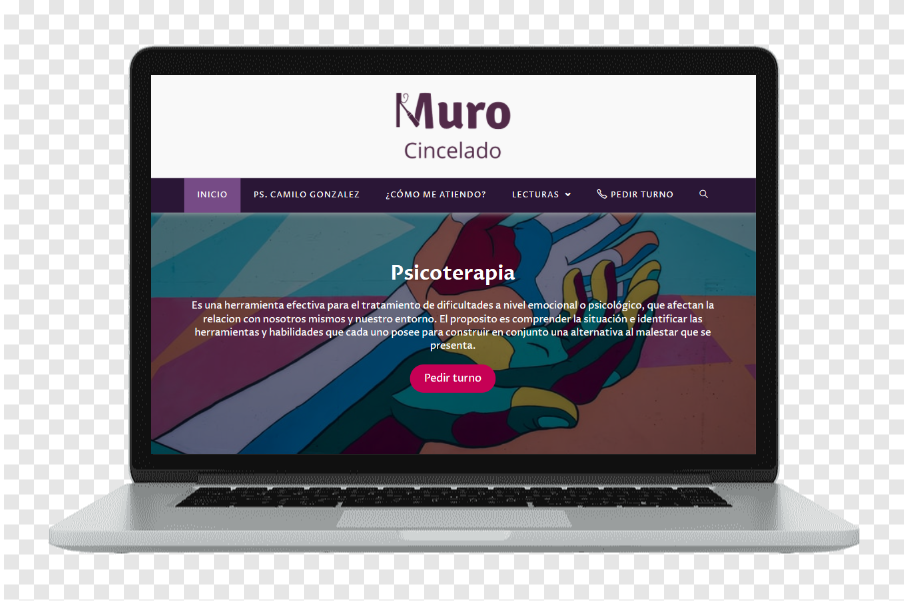
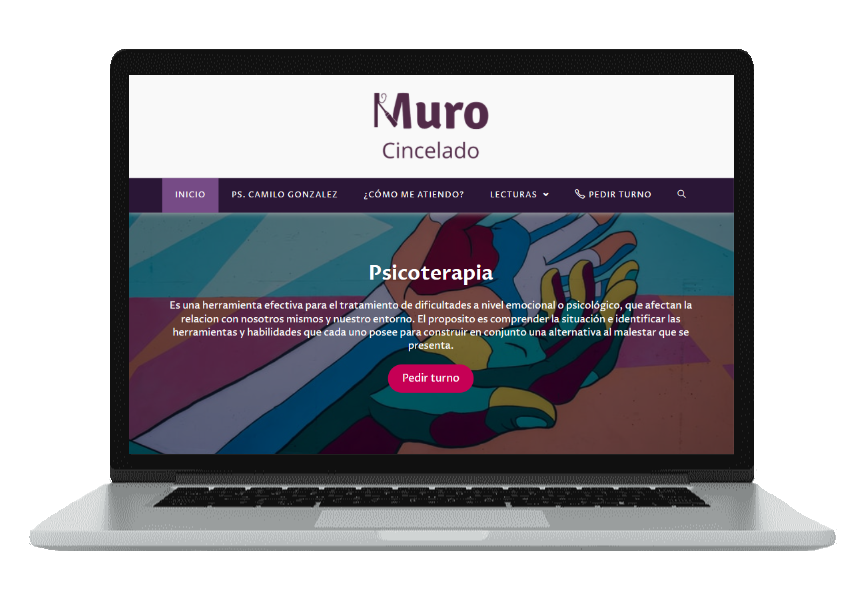
descripcion e imagenes de trabajos

diff --git a/README.md b/README.md
@@ -1,12 +1,18 @@
-### Hola 👋 
+# ¡¡Hola!!👋 
 
-Soy psicólogo, pero me apacioné por el desarrollo web. Actualmente estoy aprendiendo un monton. Es como haber descubierto un universo parelelo, que siempre estuvo allí y recien descubro. Hasta ahora me ha encantado.
+Soy psicólogo, pero me apasioné por el desarrollo web. Actualmente estoy aprendiendo un montón. Es como haber descubierto un universo paralelo que siempre estuvo allí pero recién tuve la fortuna de conocer. Hasta ahora me ha encantado.
 
-Me gustaria hacer parte de algun proyecto y poder aprender mientras aporto. Lo colaborativo siempre es mejor 😄
+Me gustaría hacer parte de algún proyecto y poder aprender mientras aporto. Lo colaborativo siempre es mejor 😄
 
-Hace unos meses cree mi propia página web. Si gustas puedes visitarla.
-<img  src='./murocincelado.png'>
+Hace unos meses cree mi propia página web. Si gustas puedes visitarla en [murocincelado.com](https://murocincelado.com/) 
 
+<img  src='./murocincelado.png' height='50%' width='50%'>
+<img  src='./murophone.png' height='20%' width='20%'>
+
+También cree una replica de la primera versión del sitio completamente en HTML CSS y JS, utilizando también Bootstrap. Aqui esta el [repositorio](https://github.com/jmilo13/muro_cincelado) y puedes [visualizarlo](https://jmilo13.github.io/muro_cincelado/) gracias a GitHub-page.
+
+<img  src='./replica.png' height='50%' width='50%'>
+<img  src='./repliphone.png' height='20%' width='20%'>
 <!--
 **jmilo13/jmilo13** is a ✨ _special_ ✨ repository because its `README.md` (this file) appears on your GitHub profile.
 
